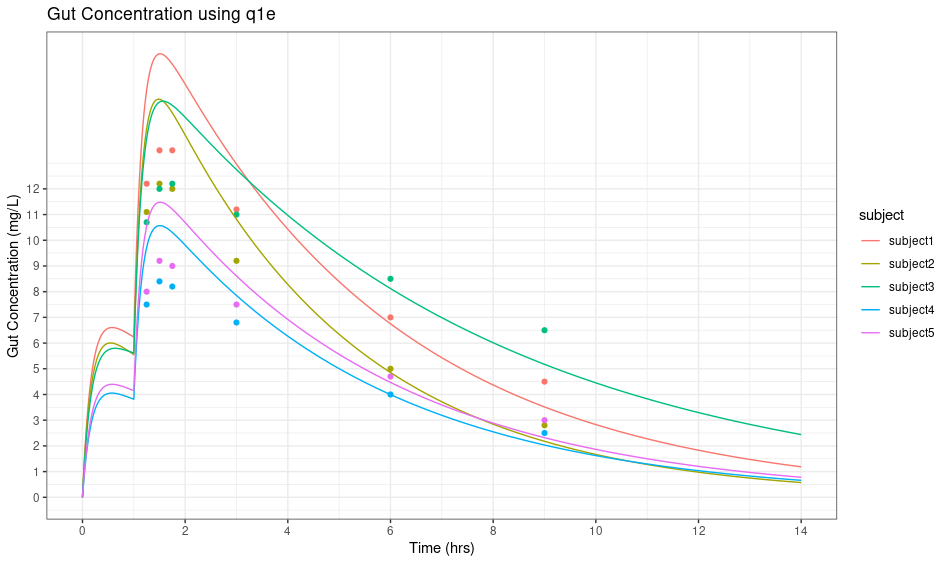
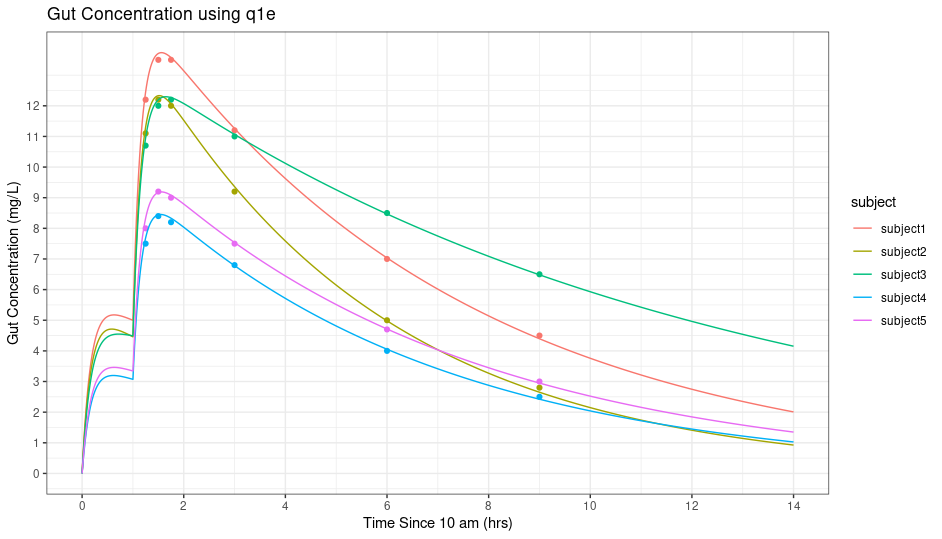
update q1 error function to increase resolution of ode solver and propagate to plots

diff --git a/hw/hw3/caffeineError.m b/hw/hw3/caffeineError.m
@@ -46,7 +46,7 @@ function error = caffeineError( ...
     end
 
     error = zeros(size(t_measured));
-    [t, y] = ode45(@(t, y) CaffeineODE(t, y, p), t_measured, y0);
+    [t, y] = ode45(@(t, y) CaffeineODE(t, y, p), 0:1/10:14, y0);
     for j=1:length(t_measured)
         teval = abs(t - t_measured(j));
         [~, tindex] = min(teval);
